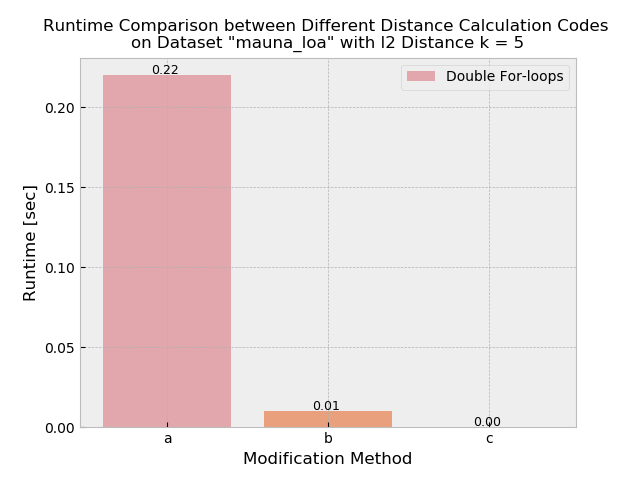
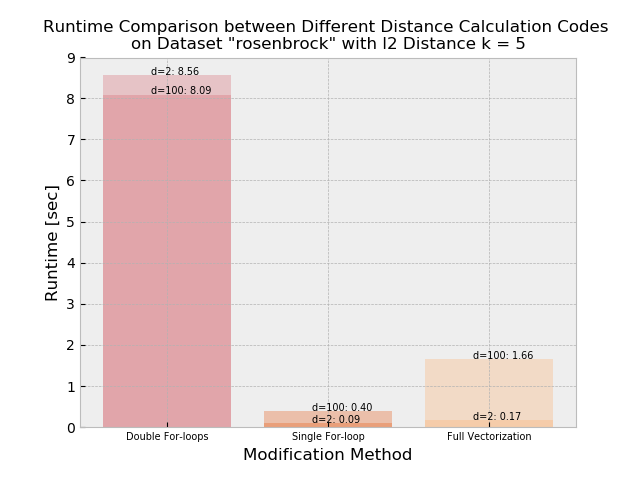
Added linear regression, questions remain for classification with it

diff --git a/kNN/kNNPerformanceStudy.py b/kNN/kNNPerformanceStudy.py
@@ -5,7 +5,7 @@ import os
 
 _COLORS = ['#d6616b', '#e6550d', '#fdae6b', '#ffbb78', '#e7ba52', '#dbdb8d']
 
-def kNNPerformance(datasetName, modificationRange, distanceHeuristic='l2', k=5):
+def kNNPerformance(datasetName, modificationRange, distanceHeuristic='l2', k=5, dRange=[2, 10, 20, 50, 100]):
     '''
     INPUT: databaseName: must be one of the regression datasets, can't be classification
     INPUT: modificationRange: a range of modification indices corresponding to a, b, c and/or d in Q3 of the assignment
@@ -13,38 +13,39 @@ def kNNPerformance(datasetName, modificationRange, distanceHeuristic='l2', k=5):
     INPUT: k: number of nearest neighbours required, here we use 5
     OUTPUT: a value of the average RMSE loss across 5 folds
     '''
-    kNNtest = kNNTraining(datasetName, distanceHeuristic, k, 1)
-    runtimes = []
-    for modificationIndex in modificationRange:
-        print('::::::::::::::::::::::::::::::::::::::::::::::::::::::::::::::::')
-        print('5 nearest neighbours using l2 distance with method', modificationIndex)
-        kNNtest.modificationIndex = modificationIndex
-        tic = os.times()[0] # Record starting time
-        kNNtest.x_train, kNNtest.y_train = kNNtest.x_all, kNNtest.y_all
-        y, errorList, rmse =[], [], 0
-        if modificationIndex in [1, 2]:
-            for i in range(kNNtest.num_testSet):
-                kNNValue, error, correctness = kNNtest.kNNRegression(kNNtest.x_test[i], kNNtest.y_test[i], kNNtest.modificationIndex)
-                y.append(kNNValue)
-                errorList.append(error)
-        elif modificationIndex == 3:
-            kNNValue, errorList = kNNtest.kNNRegression_3(kNNtest.x_test, kNNtest.y_test)
-        runtimes.append(os.times()[0] - tic)
-        print('::::::::::::::::::::::::::::::::::::::::::::::::::::::::::::::::')
-    plt.style.use('bmh') # plt.style.use('ggplot')
-    xAxis = np.arange(len(modificationRange))
-    plt.bar(xAxis, height= runtimes, alpha=0.5, color=_COLORS)
-    plt.xticks(xAxis, ['a', 'b', 'c', 'd'][:len(modificationRange)])
+    for d in dRange:
+        kNNtest = kNNTraining(datasetName, distanceHeuristic, k, 1, d)
+        runtimes = []
+        for modificationIndex in modificationRange:
+            print('::::::::::::::::::::::::::::::::::::::::::::::::::::::::::::::::')
+            print('5 nearest neighbours using l2 distance with method', modificationIndex)
+            kNNtest.modificationIndex = modificationIndex
+            tic = os.times()[0] # Record starting time
+            kNNtest.x_train, kNNtest.y_train = kNNtest.x_all, kNNtest.y_all
+            y, errorList, rmse =[], [], 0
+            if modificationIndex in [1, 2]:
+                for i in range(kNNtest.num_testSet):
+                    kNNValue, error, correctness = kNNtest.kNNRegression(kNNtest.x_test[i], kNNtest.y_test[i], kNNtest.modificationIndex)
+                    y.append(kNNValue)
+                    errorList.append(error)
+            elif modificationIndex == 3:
+                kNNValue, errorList = kNNtest.kNNRegression_3(kNNtest.x_test, kNNtest.y_test)
+            runtimes.append(os.times()[0] - tic)
+            print('::::::::::::::::::::::::::::::::::::::::::::::::::::::::::::::::')
+        plt.style.use('bmh') # plt.style.use('ggplot')
+        xAxis = np.arange(len(modificationRange))
+        plt.bar(xAxis, height= runtimes, alpha=0.3, color=_COLORS)
+        for x in xAxis:
+            plt.text(x=x-0.3, y=runtimes[x]+0.001, s='d=%d: %1.2fs'%(d, runtimes[x]), size = 7)
+    plt.xticks(xAxis, ['Double For-loops', 'Single For-loop', 'Full Vectorization', 'K-d Tree'][:len(modificationRange)], size = 7)
     plt.xlabel('Modification Method')
     plt.ylabel('Runtime [sec]')
-    plt.legend(['Double For-loops', 'Single For-loop', 'Full Vectorization', 'K-d Tree'][:len(modificationRange)], loc='upper right')
+    # plt.legend(['Double For-loops', 'Single For-loop', 'Full Vectorization', 'K-d Tree'][:len(modificationRange)], loc='upper right')
     plt.title('Runtime Comparison between Different Distance Calculation Codes \non Dataset "%s" with %s Distance k = %d' %(datasetName, distanceHeuristic, k), loc='center', size = 12)
-    for x in xAxis:
-        plt.text(x=x-0.1, y=runtimes[x]+0.001, s='%1.2f'%(runtimes[x]), size = 9)
     plt.savefig('kNNPerformance-TestSet-rosenbrock.png')
-    plt.subplots_adjust(bottom= 0.2, top = 0.5)
     return runtimes
 
 
 if __name__ == '__main__':
-    runtimes = kNNPerformance('mauna_loa', range(1,4)) #rosenbrock
+
+    runtimes = kNNPerformance('rosenbrock', modificationRange=range(1,4), dRange=[2, 100]) #rosenbrock

diff --git a/kNN/kNNTraining.py b/kNN/kNNTraining.py
@@ -1,7 +1,7 @@
 from kNNPreprocessing import *
 
 class kNNTraining:
-    def __init__(self, datasetName, distanceHeuristic='l2', k=3, modificationIndex=1):
+    def __init__(self, datasetName, distanceHeuristic='l2', k=3, modificationIndex=1, d=2):
         '''
         To run kNNTraining, please declare a class with the desired parameters and then call
         "kNNtest1.kNNRegression(kNNtest1.x_test[i], kNNtest1.y_test[i])" in a loop pf desired i
@@ -12,7 +12,7 @@ class kNNTraining:
 
         # Extraxt datasets associated with the dataset's name
         # x/y_train: the training sets, must be a N-by-D matrix for x_train and N-by-(#Class) for y_train
-        self.index_all, self.x_all, self.x_test, self.y_all, self.y_test = loadData(datasetName)
+        self.index_all, self.x_all, self.x_test, self.y_all, self.y_test = loadData(datasetName, d)
         self.num_dimension = np.shape(self.x_test)[1]
         self.num_validSet = round(np.shape(self.x_all)[0]/5)
         self.num_trainSet = np.shape(self.x_all)[0] - self.num_validSet

diff --git a/kNN/kNNPreprocessing.py b/kNN/kNNPreprocessing.py
@@ -6,14 +6,14 @@ import numpy as np
 import random
 
 
-def loadData(datasetName):
+def loadData(datasetName, d=2):
     '''
     Loads the dataset and normalize the x_ sets
     INPUT: datasetName: a string of the name of file to be loaded. Note that this file must be in the same path as this file
     OUTPUT: 6 datasets in array form, 3 of which are normalized x data
     '''
     if datasetName == 'rosenbrock':
-        x_train, x_valid, x_test, y_train, y_valid, y_test = load_dataset(datasetName, n_train=1000, d=2)
+        x_train, x_valid, x_test, y_train, y_valid, y_test = load_dataset(datasetName, n_train=1000, d=d)
     else:
         x_train, x_valid, x_test, y_train, y_valid, y_test = load_dataset(datasetName)
 
